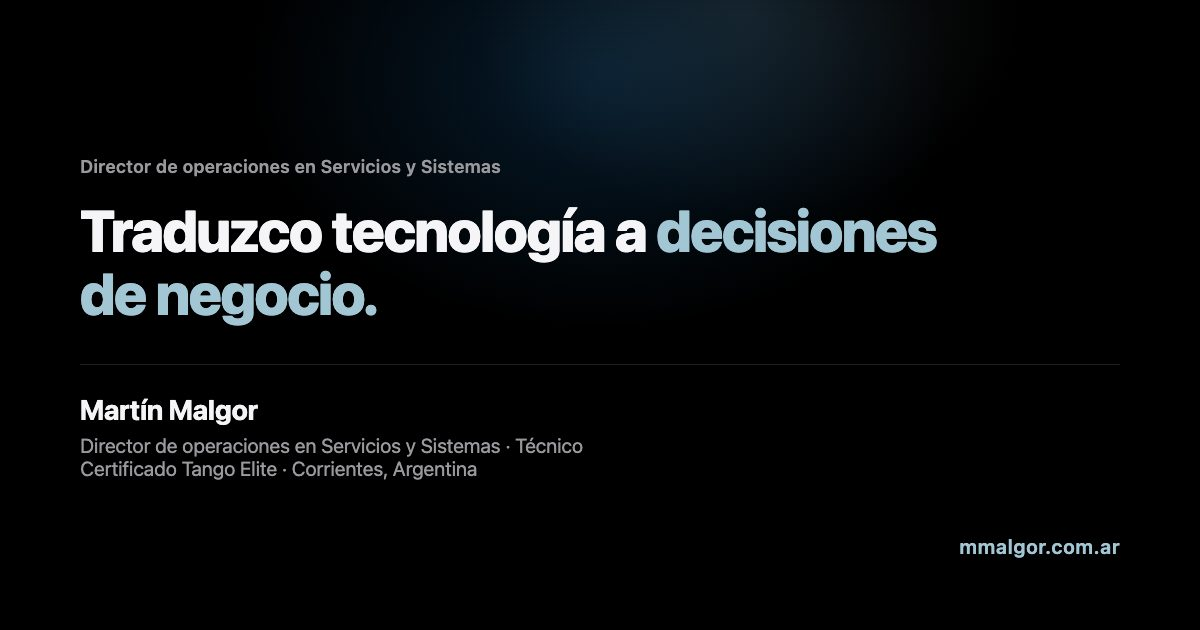
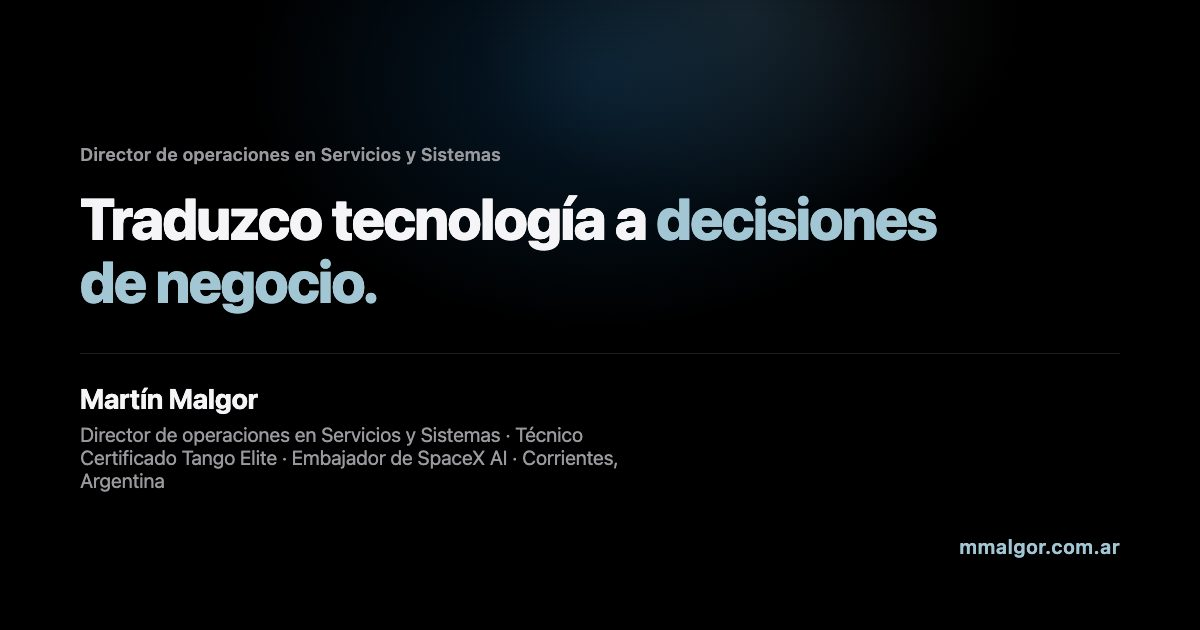
fix: voz, identidad y orden del home
SyS va antes que los meetups; ahora y la nota ya no se pisan.

Changed region(s): [[0.0617, 0.3016, 0.8017, 0.5127], [0.0617, 0.6032, 0.5242, 0.7841], [0.0617, 0.2413, 0.4317, 0.2714]]

diff --git a/src/data/sections.ts b/src/data/sections.ts
@@ -9,8 +9,7 @@ interface Faceta {
 }
 
 export const queHago = {
-  eyebrow: 'Qué hago',
-  title: 'En qué puedo ayudarte.',
+  title: 'Qué hago.',
   items: [
     {
       icon: 'lucide:layers',
@@ -83,12 +82,12 @@ export const manifiesto = {
       text: 'El sistema instalado no sirve si nadie lo usa bien. Me quedo hasta que tu equipo trabaja distinto.',
     },
     {
-      title: 'Un solo responsable.',
-      text: 'Cuando cada parte la atiende un proveedor distinto, el problema nunca es de nadie. Conmigo hay un solo número al que llamar.',
+      title: 'Un solo responsable: yo.',
+      text: 'Cuando cada parte la atiende un proveedor distinto, el problema nunca es de nadie. Me llamás a mí.',
     },
     {
-      title: 'Trabajo en una PYME del NEA.',
-      text: 'Sé cómo se cobra, se factura y se pagan sueldos acá, porque SyS lo hace todos los meses y yo estoy adentro.',
+      title: 'No te hablo de oídas.',
+      text: 'Facturación, cobranzas y sueldos los veo todos los meses en SyS. Lo que te propongo, lo uso.',
     },
   ],
 };
@@ -119,5 +118,5 @@ export const meetupsSection = {
 
 export const novedades = {
   eyebrow: 'Novedades',
-  title: 'Ahora y lo que escribí.',
+  title: 'Lo último.',
 };

diff --git a/src/data/now.ts b/src/data/now.ts
@@ -2,15 +2,16 @@
 import { fecha } from '../lib/dates';
 import { profile } from './profile';
 
-const updated = '2026-09-20';
+const updated = '2026-09-21';
 
 export const now = {
   updated,
   updatedLabel: fecha(updated),
+  title: 'Grok Bot Meetup en Corrientes.',
   excerpt:
-    'El 16 de septiembre de 2026 hicimos la primera Grok Bot Meetup de Corrientes. En SyS estoy armando el área comercial; en la UTN voy por cuarto año.',
+    'El 16 de septiembre hicimos la primera, junto con Tobías. Workshop, Tero App, Fondare App, y pizza.',
   paragraphs: [
-    'El 16 de septiembre de 2026 hicimos la primera Grok Bot Meetup de Corrientes, con Tobías Insaurralde. Dimos un workshop de Grok Bot.',
+    'El 16 de septiembre de 2026 hicimos la primera Grok Bot Meetup de Corrientes, junto con Tobías. Workshop de Grok Bot Galaxy y cómo pasar un agente a producción. El equipo de Tero App contó cómo construyen Tero, y los de Fondare App hicieron lo mismo.',
     'En SyS estoy armando el área comercial.',
     `En la UTN voy por ${profile.utn.yearLabel} de Ingeniería en Sistemas, en la Facultad Regional Resistencia.`,
     'En diciembre de 2025 habíamos hecho la primera Cursor Meetup en Resistencia.',

diff --git a/src/data/meetups.ts b/src/data/meetups.ts
@@ -42,7 +42,7 @@ export const meetups: Meetup[] = [
     date: '2026-09-16',
     dateLabel: fecha('2026-09-16'),
     place: 'Corrientes',
-    text: 'La primera Grok Bot Meetup de Corrientes. Workshop con Tobías Insaurralde: Grok Bot Galaxy, cómo pasar un agente a producción, y un panel de preguntas. Cerramos con pizza.',
+    text: 'La primera Grok Bot Meetup de Corrientes. Workshop con Tobías Insaurralde: Grok Bot Galaxy, cómo pasar un agente a producción, y un panel de preguntas. El equipo de Tero App contó cómo construyen Tero, y los de Fondare App hicieron lo mismo. Cerramos con pizza.',
     logo: spacexLogo,
     photos: [
       {
@@ -69,9 +69,9 @@ export const meetups: Meetup[] = [
     video: {
       src: `${CDN}/grok-bot-2026/grok-bot-meetup.mp4`,
       poster: `${CDN}/grok-bot-2026/grok-bot-meetup-poster.jpg`,
-      label: 'Un rato del workshop de Grok Bot, en Corrientes. El clip tiene habla y todavía no tiene subtítulos.',
+      label: 'Un rato del workshop de Grok Bot, en Corrientes.',
     },
-    credit: 'Organizada con Tobías Insaurralde.',
+    credit: 'Organizada junto con Tobías.',
   },
   {
     id: 'cursor-resistencia-2025',

diff --git a/src/data/profile.ts b/src/data/profile.ts
@@ -24,11 +24,12 @@ export const profile = {
    * esto es la ficha: quién, dónde, qué. No es frase de venta.
    */
   identity: {
-    line: 'Director de operaciones en Servicios y Sistemas · Técnico Certificado Tango Elite · Corrientes, Argentina',
+    line: 'Director de operaciones en Servicios y Sistemas · Técnico Certificado Tango Elite · Embajador de SpaceX AI · Corrientes, Argentina',
     /** El punto medio va adentro de cada span para que no quede «Argentina» sola. */
     parts: [
       'Director de operaciones en Servicios y Sistemas ·',
       'Técnico Certificado Tango Elite ·',
+      'Embajador de SpaceX AI ·',
       'Corrientes, Argentina',
     ],
     answer:
